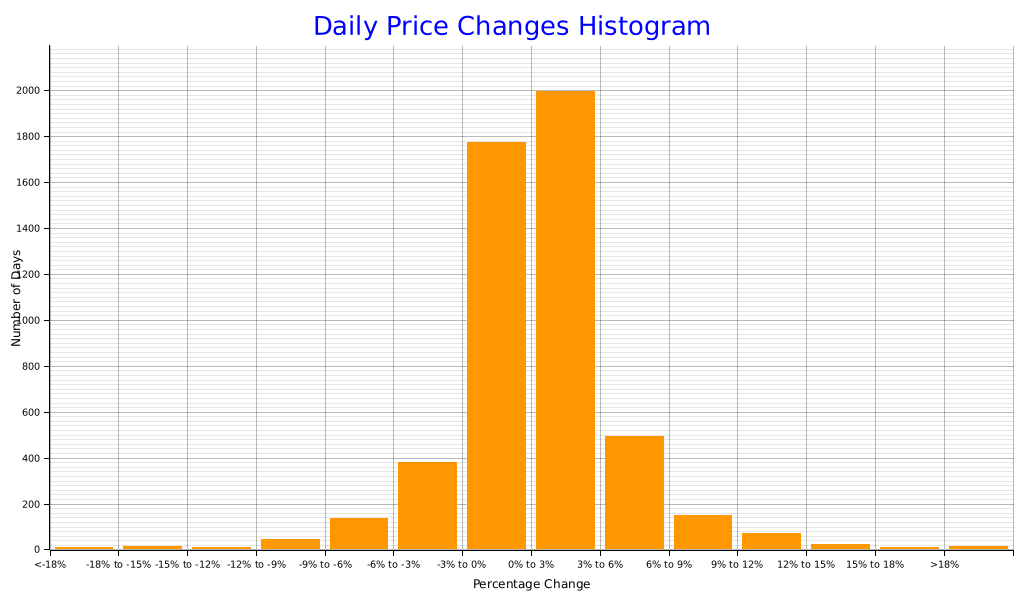
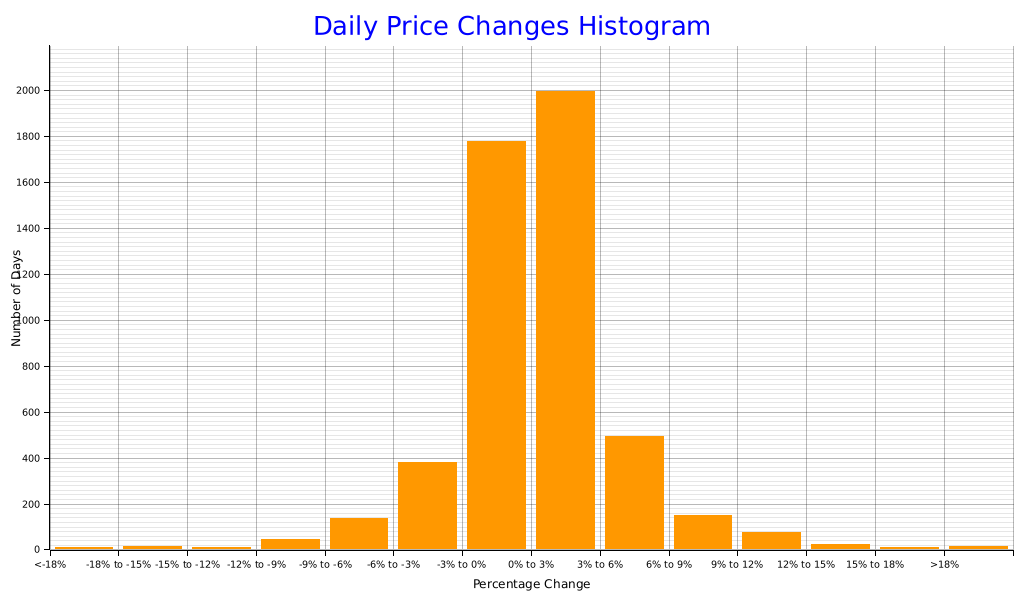
deploy: 95af0be866467ff5f422aab75c9020c8c4274433

diff --git a/index.html b/index.html
@@ -34,7 +34,7 @@
           <td>126,198.07</td>
           <td>74,436.67</td>
           <td></td>
-          <td>19,164,209,086,464.0</td>
+          <td>19,164,135,686,144.0</td>
         </tr>
         <tr>
           <td class='yearly-summary-year'>2024</td>
@@ -186,11 +186,11 @@
         </tr>
         <tr>
           <td>-3% to 0%</td>
-          <td>1776</td>
+          <td>1777</td>
         </tr>
         <tr>
           <td>0% to 3%</td>
-          <td>1995</td>
+          <td>1994</td>
         </tr>
         <tr>
           <td>3% to 6%</td>
@@ -227,7 +227,7 @@
     <br><br>
     <a href='https://github.com/bitcoin-tools/btracker'>Link to the report codebase</a>
     <br><br>
-    This report was last updated at 2025-12-25 07:52:04.533144169 UTC.
+    This report was last updated at 2025-12-25 08:32:38.832247880 UTC.
     <br><br>
     <div class='scrollable-table'>
       <table>
@@ -250,13 +250,13 @@
             <td>2025-12-25</td>
             <td>87,608.05</td>
             <td>87,848.26</td>
-            <td>87,490.75</td>
-            <td>87,714.21</td>
-            <td class='wma-column'>56,632.71</td>
-            <td>35.28 (0.06 %)</td>
-            <td>49,381.60 (128.8 %)</td>
-            <td>357.51 (0.4 %)</td>
-            <td>102.25 (0.1 %)</td>
+            <td>87,383.63</td>
+            <td>87,383.63</td>
+            <td class='wma-column'>56,632.46</td>
+            <td>35.03 (0.06 %)</td>
+            <td>49,051.02 (127.9 %)</td>
+            <td>464.63 (0.5 %)</td>
+            <td>-228.32 (0.2 %)</td>
           </tr>
           <tr>
             <td>2025-12-24</td>
